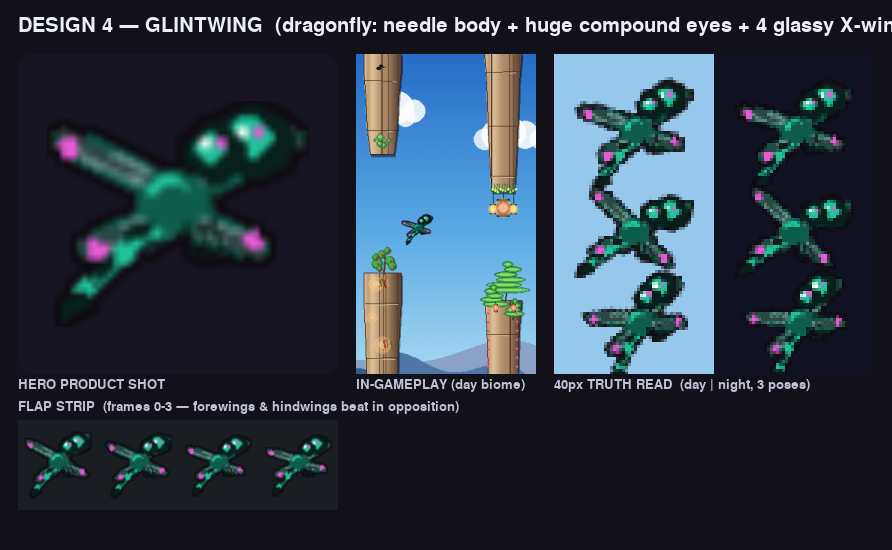
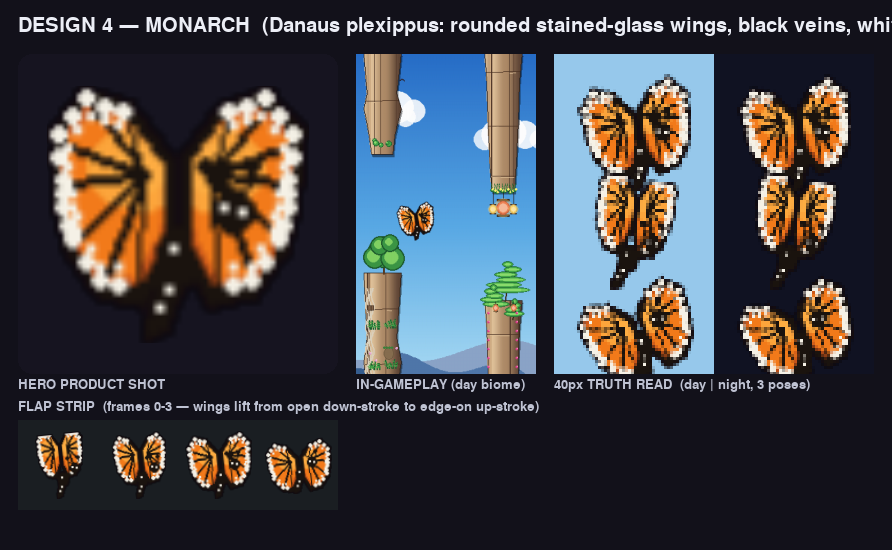
bug/bee design_4 MONARCH R1
Replace the design_4 slot with MONARCH (Danaus plexippus): rounded
stained-glass wings in monarch orange, heavy black veins radiating from
the thorax, and a thick black margin studded with a double row of white
flecks. Warm amber-core to deep-orange gradient; reads on pure value
contrast so it holds on both day and night sky without a glow.

Scratch exploration only — not registered in store_skins.BUILDERS.

Claude-Session: https://claude.ai/code/session_01K6KPJsdtoYoDR2za2Jqnmo

diff --git a/tools/bee_candidates/design_4.py b/tools/bee_candidates/design_4.py
@@ -1,172 +1,193 @@
-"""GLINTWING — bug/insect skin candidate (Design 4): a Dragonfly.
+"""BUG/INSECT redesign — design_4 MONARCH (Danaus plexippus).
 
-The anti-bee. Where every other bug reads round and chunky, GLINTWING is a
-long slender jewel-green needle held horizontal, crossed by four narrow glassy
-wings in an X. That elongated cross — not a blob — is the 40px tell. Two
-huge iridescent compound eyes own the head; the abdomen marches lower-left in
-banded emerald/dark segments to a fine point.
+The stained-glass classic. Two broad rounded playing-card wings fill the
+canvas in bright monarch orange, carved into cells by heavy black veins that
+radiate from the thorax, and framed by a thick black margin studded with a
+double row of white flecks — the instantly-legible "orange butterfly" a player
+recognises before they read anything else. A warm amber→deep-orange gradient
+runs from the thorax root out to the wing edges. The whole read is built on
+raw value contrast (bright orange over deep black), so it holds on both bright
+day sky and night sky without a glow.
 
-The four wings beat in OPPOSITION (forewings up while hindwings drop) — the
-real dragonfly signature — driven off the shared flap rig so the motion stays
-in lock-step with the other skins.
-
-Scratch exploration builder — wrapped by the ninja_render harness, never
-registered in store_skins.BUILDERS.
+Scratch exploration only — NOT registered in store_skins.BUILDERS. Production
+art stays untouched until a winner is picked.
 """
-import math
 import pygame
 
 from game.parrot import _WING_ANGLES, _add_outline, _aaellipse
 
 COMPOSITE_W, COMPOSITE_H = 64, 84
-BCX, BCY = 32, 44          # thorax centre — the solid anchor
-HCX, HCY = 44, 34          # head, up-right along the body axis
+BCX, BCY = 32, 44          # thorax centre — wings mount symmetric about here
+HCX, HCY = 44, 34          # head, up-right along the insect axis
 CROWN_Y = 24
 
-# Jewel-toned dragonfly palette.
-EMERALD   = (14, 92, 74)     # #0E5C4A — thorax / wing edge
-JEWEL     = (34, 195, 154)   # #22C39A — bright body segments / eye iris
-GLASS     = (184, 255, 240)  # #B8FFF0 — glassy wing membrane (semi-alpha)
-MAGENTA   = (232, 90, 216)   # #E85AD8 — pterostigma + eye catchlight
-VEIN_DARK = (8, 32, 28)      # #08201C — dark bands / vein shadow / eye shell
-VEIN_LINE = (100, 200, 180)  # faint wing veins
+# ── palette ──────────────────────────────────────────────────────────────────
+MONARCH = (242, 122, 26)   # #F27A1A — dominant wing fill
+INK     = (26, 19, 14)     # #1A130E — veins, margin, head, body
+FLAKE   = (245, 241, 230)  # #F5F1E6 — margin dots + head/body specks
+AMBER   = (255, 179, 71)   # #FFB347 — warm gradient core near the thorax
+SHADOW  = (196, 83, 26)    # #C4531A — deeper saturated orange at the edges
+
+
+def _new():
+    return pygame.Surface((COMPOSITE_W, COMPOSITE_H), pygame.SRCALPHA)
 
 
 def _flap(a):
+    # 0 = fully down-stroke (wings wide open), 1 = fully up-stroke (edge-on).
     return (a + 40) / 90.0
 
 
-def _seg(surf, cx, cy, color, along, across, angle=45):
-    """One abdomen segment: an x-elongated ellipse tilted onto the body axis
-    so the segments read as a narrow banded needle, not a bead chain."""
-    pad = 2
-    w = int(along * 2 + pad * 2)
-    h = int(across * 2 + pad * 2)
-    tile = pygame.Surface((w, h), pygame.SRCALPHA)
-    _aaellipse(tile, color, (w / 2, h / 2), along, across)
-    tile = pygame.transform.rotate(tile, angle)
-    surf.blit(tile, tile.get_rect(center=(cx, cy)))
+# Right-wing outer contour at the full-open pose. A big ROUNDED forewing throws
+# its apex up-and-out to fill the canvas width; a rounder hindwing lobe hangs
+# below a shallow notch — the classic monarch playing-card silhouette. Inner
+# edges sit ~2px off the body axis so the mirrored left wing nearly meets it,
+# leaving a thin central channel for the black body.
+_WING_R = [
+    (34, 28),   # inner top, ~2px off the body axis
+    (44, 16),   # forewing leading rise
+    (54, 13),   # forewing apex — up and out
+    (62, 22),   # forewing outer shoulder — fills the width
+    (61, 33),   # forewing trailing outer
+    (60, 40),   # shallow notch between fore/hind wing (rounded card)
+    (58, 48),   # hindwing outer
+    (50, 58),   # hindwing rounded tail lobe
+    (40, 60),   # hindwing bottom
+    (34, 48),   # inner bottom, ~2px off the body axis
+]
 
 
-def _blit_rot(dest, image, pivot_img, anchor, angle):
-    """Blit `image` rotated by `angle` (CCW) so its `pivot_img` point lands on
-    `anchor` — used to fan each wing out from the thorax hub."""
-    rect = image.get_rect(topleft=(anchor[0] - pivot_img[0],
-                                   anchor[1] - pivot_img[1]))
-    offset = pygame.math.Vector2(anchor) - pygame.math.Vector2(rect.center)
-    offset = offset.rotate(-angle)
-    center = (anchor[0] - offset.x, anchor[1] - offset.y)
-    rotated = pygame.transform.rotate(image, angle)
-    dest.blit(rotated, rotated.get_rect(center=center))
+def _centroid(pts):
+    n = len(pts)
+    return (sum(p[0] for p in pts) / n, sum(p[1] for p in pts) / n)
 
 
-def _wing(length, is_fore):
-    """A single long narrow GLASSY membrane extending to +x from a left-edge
-    pivot. The read is built from EDGES, not fill: a near-white leading rail
-    and an emerald trailing rail with actual sky showing between them, so the
-    pane reads as glass rather than a solid teal blade. A faint oil-slick tint
-    (magenta base → cyan mid → jewel tip) fakes iridescence at this scale."""
-    width = 6
-    pivot = (5, 12)
-    surf = pygame.Surface((int(length + 12), 24), pygame.SRCALPHA)
-    cx = pivot[0] + length / 2
-    cy = pivot[1]
-    ry = width / 2
-    tip_x = pivot[0] + length
-    # Very low-alpha membrane so day/night sky pours through the pane; NO solid
-    # jewel interior base — the fill must not turn this into a dark spoke.
-    _aaellipse(surf, (*GLASS, 74), (cx, cy), length / 2, ry)
-    # Oil-slick iridescence: three short offset alpha bands shift hue base→tip.
-    third = length / 3.0
-    tint_bands = ((MAGENTA, 52, pivot[0] + 2), (GLASS, 46, pivot[0] + third),
-                  (JEWEL, 40, pivot[0] + 2 * third))
-    for col, a, bx in tint_bands:
-        pygame.draw.line(surf, (*col, a),
-                         (int(bx), int(cy)), (int(bx + third - 1), int(cy)), 3)
-    # Two crisp rails define the glass: bright leading edge (holds against
-    # bright day sky), emerald trailing edge.
-    lead = (240, 255, 250)       # near-white GLASS — defining stroke on blue
-    pygame.draw.line(surf, lead, (pivot[0] + 2, cy - ry + 1),
-                     (tip_x - 1, cy - 1), 1)
-    pygame.draw.line(surf, EMERALD, (pivot[0] + 2, cy + ry - 1),
-                     (tip_x - 1, cy + 1), 1)
-    # Rounded glassy tip cap closes the two rails.
-    pygame.draw.circle(surf, lead, (int(tip_x - 1), int(cy)), 1)
-    # A single central vein — only on forewings; hindwings stay clean.
-    if is_fore:
-        pygame.draw.line(surf, (*VEIN_LINE, 70),
-                         (pivot[0] + 3, cy), (tip_x - 2, cy), 1)
-    # Pterostigma — magenta cell near the leading tip.
-    pygame.draw.circle(surf, MAGENTA, (int(tip_x - 4), int(cy - 1)), 2)
-    return surf, pivot
+def _inset(pts, frac):
+    """Shrink a polygon toward its centroid — the gap becomes the ink margin."""
+    cx, cy = _centroid(pts)
+    return [(x + (cx - x) * frac, y + (cy - y) * frac) for x, y in pts]
+
+
+def _transform(pts, side, spread, nx):
+    """Place a wing: mirror for the left side, narrow it toward the body on the
+    up-stroke (edge-on), and lift it as the stroke rises."""
+    out = []
+    for x, y in pts:
+        dx = (x - BCX) * side
+        out.append((BCX + dx * nx, y - spread))
+    return out
+
+
+def _wing_mask(pts):
+    m = _new()
+    pygame.draw.polygon(m, (255, 255, 255, 255), pts)
+    return m
+
+
+def _draw_wing(surf, side, spread, nx):
+    margin = _transform(_WING_R, side, spread, nx)
+    fill = _inset(margin, 0.14)                     # thick ~6px black margin
+
+    # Black margin first (the separator that carries the read on any sky), then
+    # the warm three-stop orange field: a deep-orange base that survives at the
+    # extremities, the dominant monarch orange over most of the face, and an
+    # amber core blushed in at the thorax root.
+    pygame.draw.polygon(surf, INK, margin)
+    pygame.draw.polygon(surf, SHADOW, fill)
+    inner = _inset(fill, 0.10)
+    pygame.draw.polygon(surf, MONARCH, inner)
+
+    fcx, fcy = _centroid(fill)
+    rx, ry = margin[0]                               # wing root (inner-top)
+    root = (rx + (fcx - rx) * 0.42, ry + (fcy - ry) * 0.42)
+    core = _new()
+    for r, col, a in ((16, MONARCH, 160), (12, AMBER, 190), (7, AMBER, 230)):
+        _aaellipse(core, (*col, a), root, r, r * 0.82)
+    core.blit(_wing_mask(fill), (0, 0), special_flags=pygame.BLEND_RGBA_MIN)
+    surf.blit(core, (0, 0))
+
+    # Heavy black veins radiating from the thorax root out to the margin — the
+    # stained-glass carve. Five main ribs to the wing extremities plus a thin
+    # midrib give distinct orange cells without turning to noise at 40px.
+    for idx in (2, 3, 4, 6, 7):
+        pygame.draw.line(surf, INK, root, fill[idx], 2)
+    pygame.draw.line(surf, INK, root, fill[1], 1)
+    pygame.draw.line(surf, INK, root, fill[8], 1)
+
+    # Double row of white flecks marching along the black margin — the monarch's
+    # signature border dots. Sampled along each outer edge and offset inward so
+    # they always sit ON the black band, never on the orange (true to species).
+    outer = margin[1:9]
+    for i in range(len(outer) - 1):
+        a0, a1 = outer[i], outer[i + 1]
+        for t in (0.0, 0.5):
+            ex = a0[0] + (a1[0] - a0[0]) * t
+            ey = a0[1] + (a1[1] - a0[1]) * t
+            # Outer row (larger) near the rim, inner row (smaller) toward fill.
+            ox = ex + (fcx - ex) * 0.12
+            oy = ey + (fcy - ey) * 0.12
+            ix = ex + (fcx - ex) * 0.28
+            iy = ey + (fcy - ey) * 0.28
+            pygame.draw.circle(surf, FLAKE, (int(ox), int(oy)), 2)
+            pygame.draw.circle(surf, FLAKE, (int(ix), int(iy)), 1)
+
+
+def _draw_body(surf):
+    # Slim black abdomen trailing lower-left along the insect axis, flecked with
+    # white — the monarch's spotted body — tucked into the central wing channel.
+    pygame.draw.polygon(surf, INK, [
+        (BCX - 3, BCY - 1), (BCX + 3, BCY - 1),
+        (BCX - 3, BCY + 15), (BCX - 7, BCY + 17),
+    ])
+    for (fx, fy) in ((BCX - 1, BCY + 3), (BCX - 2, BCY + 7),
+                     (BCX - 4, BCY + 11)):
+        pygame.draw.circle(surf, FLAKE, (fx, fy), 1)
+    # Furred thorax bead.
+    _aaellipse(surf, INK, (BCX, BCY), 5, 7)
+    pygame.draw.circle(surf, FLAKE, (BCX - 1, BCY - 2), 1)
+
+
+def _draw_head(surf):
+    # Two thin CLUBBED antennae (true butterfly) sweeping up-and-out to the
+    # crown, each ending in an ink ball.
+    for (tx, ty) in ((HCX - 6, CROWN_Y), (HCX + 4, CROWN_Y)):
+        sx, sy = HCX + (1 if tx > HCX else -1), HCY - 4
+        mx = (sx + tx) / 2 + (2 if tx > HCX else -2)
+        my = (sy + ty) / 2
+        pygame.draw.lines(surf, INK, False,
+                          [(sx, sy), (mx, my), (tx, ty)], 1)
+        pygame.draw.circle(surf, INK, (tx, ty), 2)
+    # Black head bead with a pair of white specks.
+    _aaellipse(surf, INK, (HCX, HCY), 5, 5)
+    pygame.draw.circle(surf, FLAKE, (HCX - 2, HCY - 1), 1)
+    pygame.draw.circle(surf, FLAKE, (HCX + 2, HCY), 1)
 
 
 def _build_frame(wing_angle_deg):
-    surf = pygame.Surface((COMPOSITE_W, COMPOSITE_H), pygame.SRCALPHA)
+    surf = _new()
     f = _flap(wing_angle_deg)
-    spread = (f - 0.5) * 28.0
-    lift = spread * 0.9          # forewings and hindwings beat in opposition
+    spread = int(f * 18)           # lift the wings as the stroke rises
+    # Cap the horizontal narrowing so even the edge-on up-stroke stays legibly
+    # winged — the lifted `spread` carries the "wings raised" read.
+    nx = 1.0 - 0.30 * f
 
-    fore_len, hind_len = 26, 20
-    fore_r, fore_pivot = _wing(fore_len, is_fore=True)
-    hind_r, hind_pivot = _wing(hind_len, is_fore=False)
-
-    hub = (BCX + 1, BCY - 2)
-    # Right forewing up-right, left mirrored; hindwings drop opposite the beat.
-    _blit_rot(surf, fore_r, fore_pivot, hub, 28 + lift)          # fore right
-    _blit_rot(surf, fore_r, fore_pivot, hub, 152 - lift)         # fore left
-    _blit_rot(surf, hind_r, hind_pivot, (BCX, BCY + 2), -22 - lift)   # hind right
-    _blit_rot(surf, hind_r, hind_pivot, (BCX, BCY + 2), 202 + lift)   # hind left
-
-    # --- Abdomen: the DOMINANT long needle marching lower-left from the thorax.
-    # It runs ~(30,47)→(6,73) — a 34px+ projected tail, longer than any wing —
-    # so the silhouette reads dragonfly, not a 4-pointed jack. It thins hard and
-    # the last third goes solid jewel to a fine dark point; only two dark bands
-    # near the base, so the segments don't devolve into a noisy bead chain. ---
-    n = 9
-    for i in range(n):
-        t = i / (n - 1)
-        cx = 30 - 24 * t
-        cy = 47 + 26 * t
-        along = 3.2 - 1.4 * t
-        across = 2.4 - 1.6 * t
-        # Only the two dark bands near the base alternate; the tail is solid.
-        color = VEIN_DARK if i in (1, 3) else JEWEL
-        _seg(surf, cx, cy, color, along, across)
-    # A thin jewel spine tying the segments into one continuous needle.
-    pygame.draw.line(surf, JEWEL, (30, 47), (7, 72), 1)
-    # Dark tail point at the very tip.
-    pygame.draw.polygon(surf, VEIN_DARK,
-                        [(7, 71), (4, 76), (9, 73)])
-
-    # --- Thorax: solid opaque hub, shrunk a hair so the tail wins the read ---
-    _aaellipse(surf, EMERALD, (BCX, BCY), 6, 5)
-    _aaellipse(surf, JEWEL, (BCX - 1, BCY - 2), 3, 2)   # top sheen
-    _aaellipse(surf, EMERALD, (BCX, BCY + 1), 4, 3)
-
-    # --- Legs: one short 2px cluster under the thorax; more turns to fuzz ---
-    for lx, ly in ((BCX + 3, BCY + 4), (BCX + 5, BCY + 4)):
-        pygame.draw.line(surf, VEIN_DARK, (lx, ly), (lx + 2, ly + 4), 1)
-
-    # --- Head + huge compound eyes (the hero tell) ---
-    _aaellipse(surf, EMERALD, (HCX, HCY), 7, 6)          # slim head base
-    # Two big compound eyes fill the head; front eye leads up-right.
-    for (ex, ey, rx, ry) in ((HCX + 3, HCY - 1, 8, 7), (HCX - 4, HCY + 1, 6, 6)):
-        _aaellipse(surf, VEIN_DARK, (ex, ey), rx, ry)             # dark shell
-        _aaellipse(surf, JEWEL, (ex - 1, ey - 1), rx - 3, ry - 3)  # iridescent iris
-        pygame.draw.circle(surf, MAGENTA, (int(ex + 1), int(ey - 2)), 1)  # catchlight
-        pygame.draw.circle(surf, (240, 255, 250), (int(ex - 2), int(ey - 2)), 1)
-
+    # Far (left) wing behind the body, near (right) wing in front of the roots.
+    _draw_wing(surf, -1, spread, nx)
+    _draw_body(surf)
+    _draw_wing(surf, +1, spread, nx)
+    _draw_head(surf)
     return surf
 
 
-_state = {}
+_state = {"frames": None, "rot": {}}
 
 
 def build(frame_idx: int, tilt_deg: float) -> pygame.Surface:
-    angle = _WING_ANGLES[frame_idx % len(_WING_ANGLES)]
-    key = (frame_idx % len(_WING_ANGLES), round(tilt_deg / 3) * 3)
-    if key not in _state:
-        _state[key] = pygame.transform.rotozoom(
-            _add_outline(_build_frame(angle)), key[1], 1.0)
-    return _state[key]
+    if _state["frames"] is None:
+        _state["frames"] = [_add_outline(_build_frame(a)) for a in _WING_ANGLES]
+    frame_idx %= 4
+    key = (frame_idx, int(round(tilt_deg / 3)) * 3)
+    if key not in _state["rot"]:
+        _state["rot"][key] = pygame.transform.rotozoom(
+            _state["frames"][frame_idx], key[1], 1.0)
+    return _state["rot"][key]

diff --git a/tools/bee_candidates/_render_design_4.py b/tools/bee_candidates/_render_design_4.py
@@ -1,6 +1,6 @@
-"""Compose the GLINTWING (design_4) review sheet: a hero product shot, an
-in-gameplay day-biome panel, a 4-frame flap strip showing the opposing wing
-beat, and a 40px NEAREST truth read (day | night, 3 poses).
+"""Compose the MONARCH (design_4) review sheet: a hero product shot, an
+in-gameplay day-biome panel, a 40px NEAREST truth read (day | night, 3 poses),
+and a 4-frame flap strip.
 
 Scratch exploration; nothing here touches production art.
 
@@ -16,8 +16,9 @@ pygame.init()
 from tools import ninja_render
 from tools.bee_candidates.design_4 import build
 
-OUT = "docs/store_redesign/animal/bee/design_4/round_2.png"
-TITLE = "DESIGN 4 — GLINTWING  (dragonfly: needle body + huge compound eyes + 4 glassy X-wings)"
+OUT = "docs/store_redesign/animal/bee/design_4/round_1.png"
+TITLE = ("DESIGN 4 — MONARCH  (Danaus plexippus: rounded stained-glass wings, "
+         "black veins, white-dotted margin)")
 
 
 def _label(surf, text, x, y, size=18, color=(236, 238, 246)):
@@ -26,8 +27,8 @@ def _label(surf, text, x, y, size=18, color=(236, 238, 246)):
 
 
 def _flap_strip(box):
-    """The four flap frames side by side on a soft panel — shows the fore/hind
-    opposing beat that a single hero pose can't."""
+    """The four flap frames side by side on a soft panel — shows the wings
+    lift from wide-open down-stroke toward the edge-on up-stroke."""
     panel = pygame.Surface((box, box // 4 + 10))
     panel.fill((26, 30, 34))
     cell = box // 4
@@ -100,7 +101,7 @@ def main():
         x += panel.get_width() + pad
 
     sy = head + box + 28
-    _label(sheet, "FLAP STRIP  (frames 0-3 — forewings & hindwings beat in opposition)",
+    _label(sheet, "FLAP STRIP  (frames 0-3 — wings lift from open down-stroke to edge-on up-stroke)",
            pad, sy - 2, size=13, color=(190, 194, 210))
     sheet.blit(strip, (pad, sy + 18))
 
